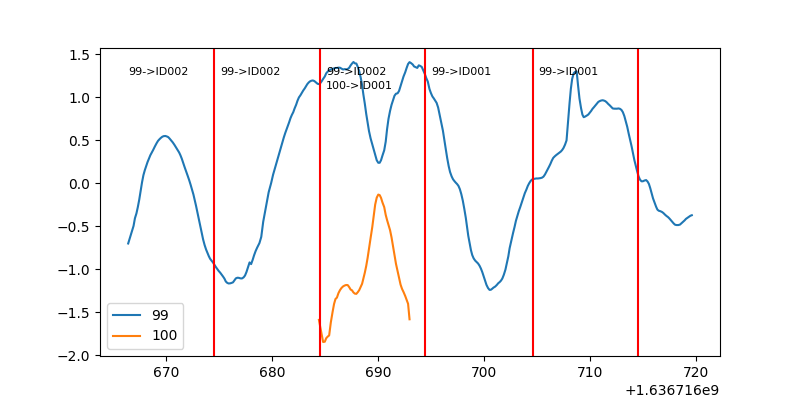
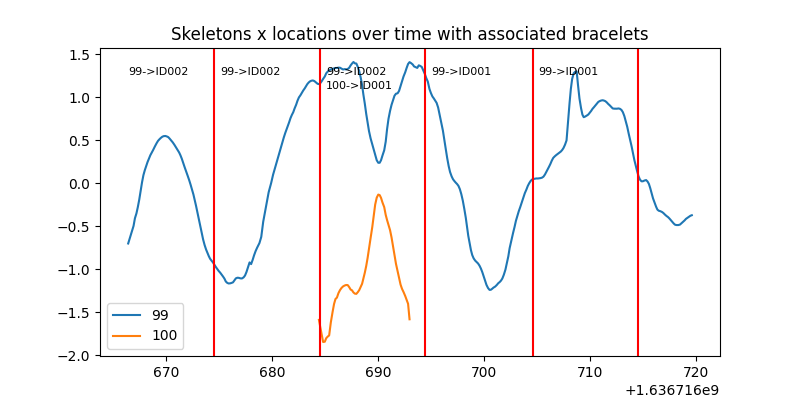
Updated README.md

Changed region(s): [[0.2188, 0.06, 0.8125, 0.12]]

diff --git a/tests/test_mpit.py b/tests/test_mpit.py
@@ -152,5 +152,6 @@ if __name__ == "__main__":
                 plt.text(association['ts_start'], (0.8-i)*y_max,
                          str(association['skeleton_id']) + "->" + str(association['bracelet_id']), fontsize=8)
                 i += 0.1
+    plt.title("Skeletons x locations over time with associated bracelets")
     plt.legend(loc='lower left')
     plt.show()

diff --git a/README.md b/README.md
@@ -215,37 +215,26 @@ The desire output (with default parameters) is the following image:
 </p>
 
 Parameters:
-* -d : Training data path
-* -e : Number of training epochs
-* -i : Input format (N:Number of joints, D:Dimensions)
-* -hs : LSTM hidden layer size. Options: 256, 512, 1024
-* -lr : One-Cycle policy learning rates (max_lr, min_lr)
-* -tb : Test batch size
-* -eb : Evaluation batch size
-* -s : Every how many epochs save checkpoint of the model
-
-The results of the training (args, tensorboard summary and checkpoints) are saved in the runs folder.
-Note: The GPU is automatically detected for training. 
-
-### Testing 
-
-```sh
-  python test.py -d "Data/test/examples.npy" -l "Data/test/labels.npy" -i 18 3 -hs 1024 -tb 8 -chk path_to_last_chk
-  ```
-
-Parameters:
-* -d : Testing data path
-* -l : Ground-truth data path
-* -i : Input format (N:Number of joints, D:Dimensions)
-* -hs : LSTM hidden layer size. Options: 256, 512, 1024
-* -tb : Test batch size
-* -chk : Path to checkpoint to test
-
-Note: The GPU is automatically detected for testing. 
+* -s : Skeletons data path in the format of our dataset
+* -a : Acceleration data path in the format of our dataset
+* -w : Chuck size in seconds to split the entire data sequence
+* -c : Camera used to record: "Intel" or "Kinect" (Default for our data is Intel)
+* -asw : Acceleration smoothing window for noise removal (Default: 35)
+* -asp : Acceleration smoothing poly for noise removal (Default: 1)
+* -smd : Minimum duration in seconds for a skeleton to be considered valid (Default: 5, NOTE: we suggest to use at least half of the chuck size) 
+* -ssf : Skeleton smoothing filter for noise removal, "savgol" or "weiner" (Default: "savgol")
+* -ssw : Skeleton smoothing window for noise removal (Default: 7)
+* -ssp : Skeleton smoothing poly for noise removal (Default: 1)
+* -dsf : Direction smoothing filter for noise removal, "savgol" or "weiner" (Default: "savgol")
+* -dsw : Direction smoothing window for noise removal (Default: 5)
+* -dsp : Direction smoothing poly for noise removal (Default: 1)
+* -csw : Smoothing window for conversion of skeletons positions to accelerations (Default: 3)
+* -csp : Smoothing poly for conversion of skeletons positions to accelerations (Default: 1)
+* -ca : Camera rotation angle on the y-axis (Default: 0)
+* -sw : Weight for similarities measures balance of pure and derivative (see paper, Default: 0.7)
+* -v : Verbose for console logs if >=1 (Default: 0)
 
 <p align="right">(<a href="#top">back to top</a>)</p>
-
-
 
 <!-- ROADMAP -->
 ## Roadmap
